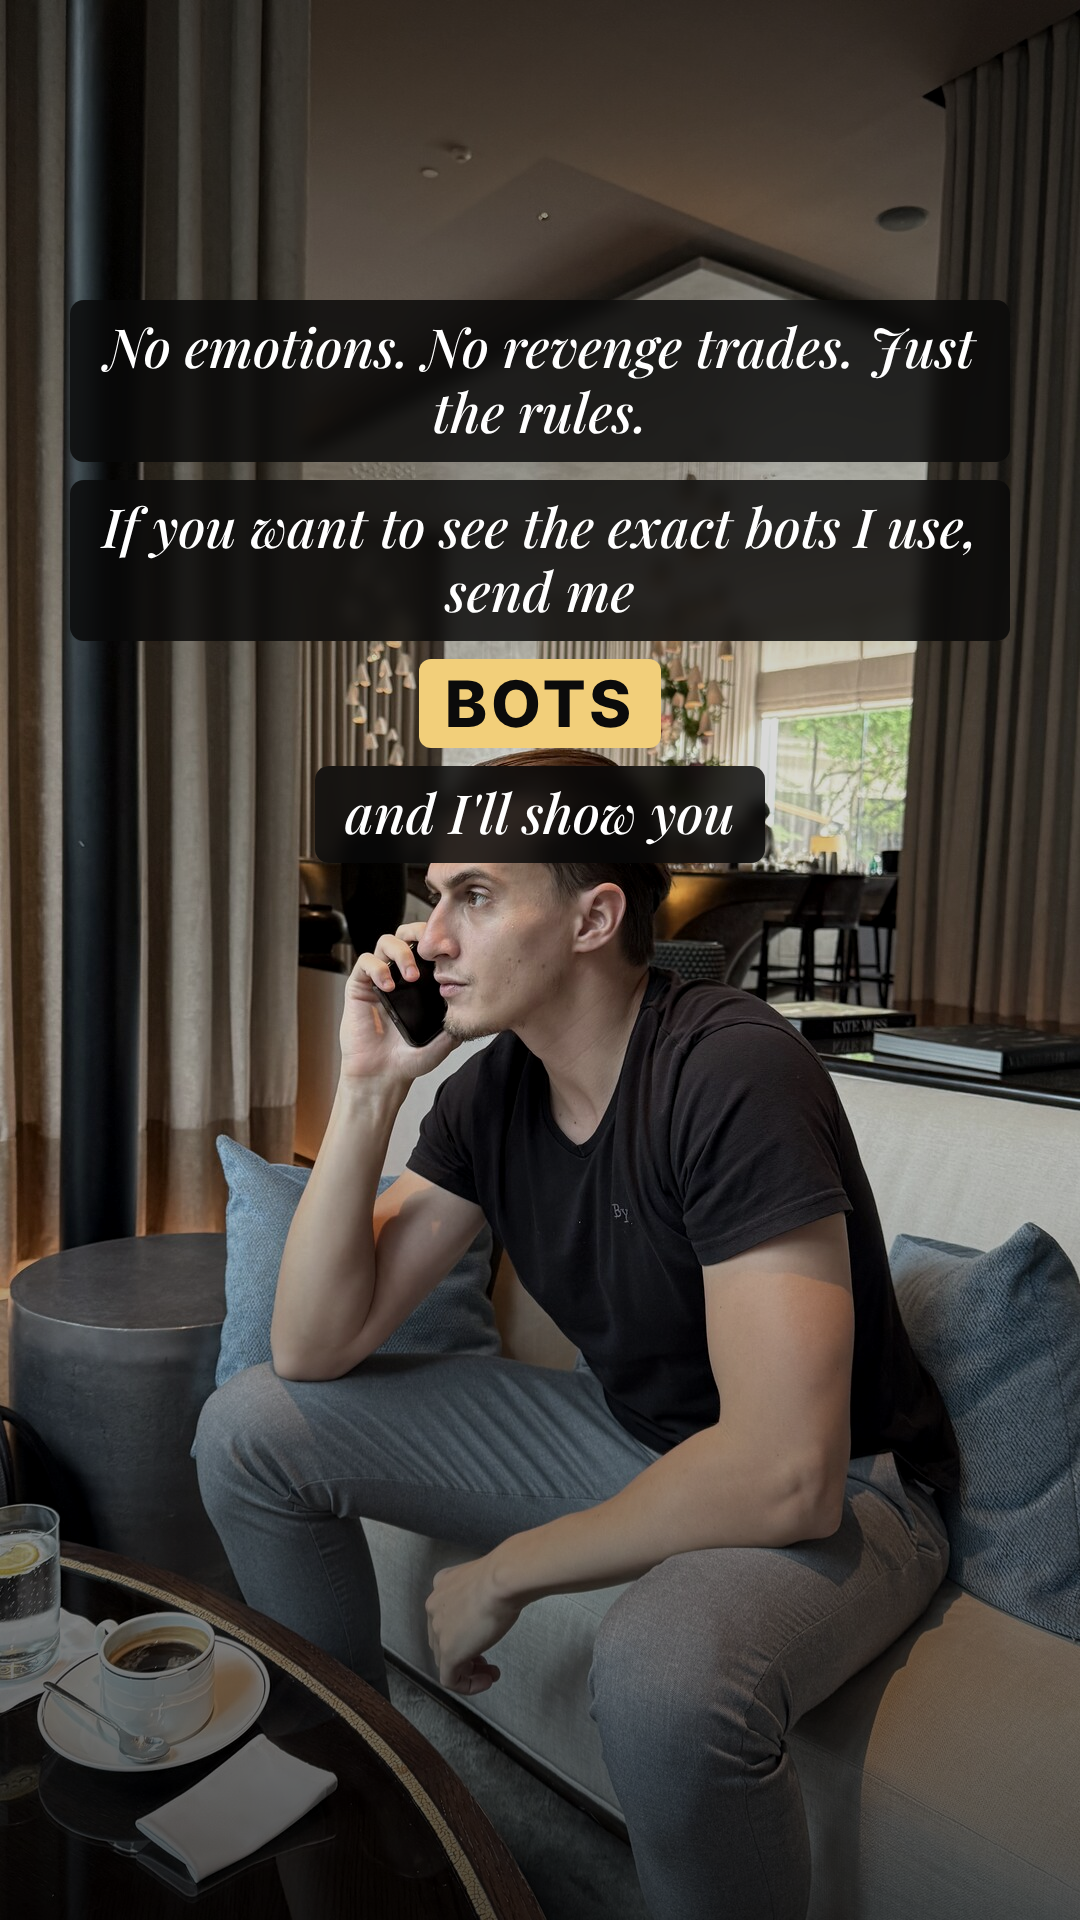
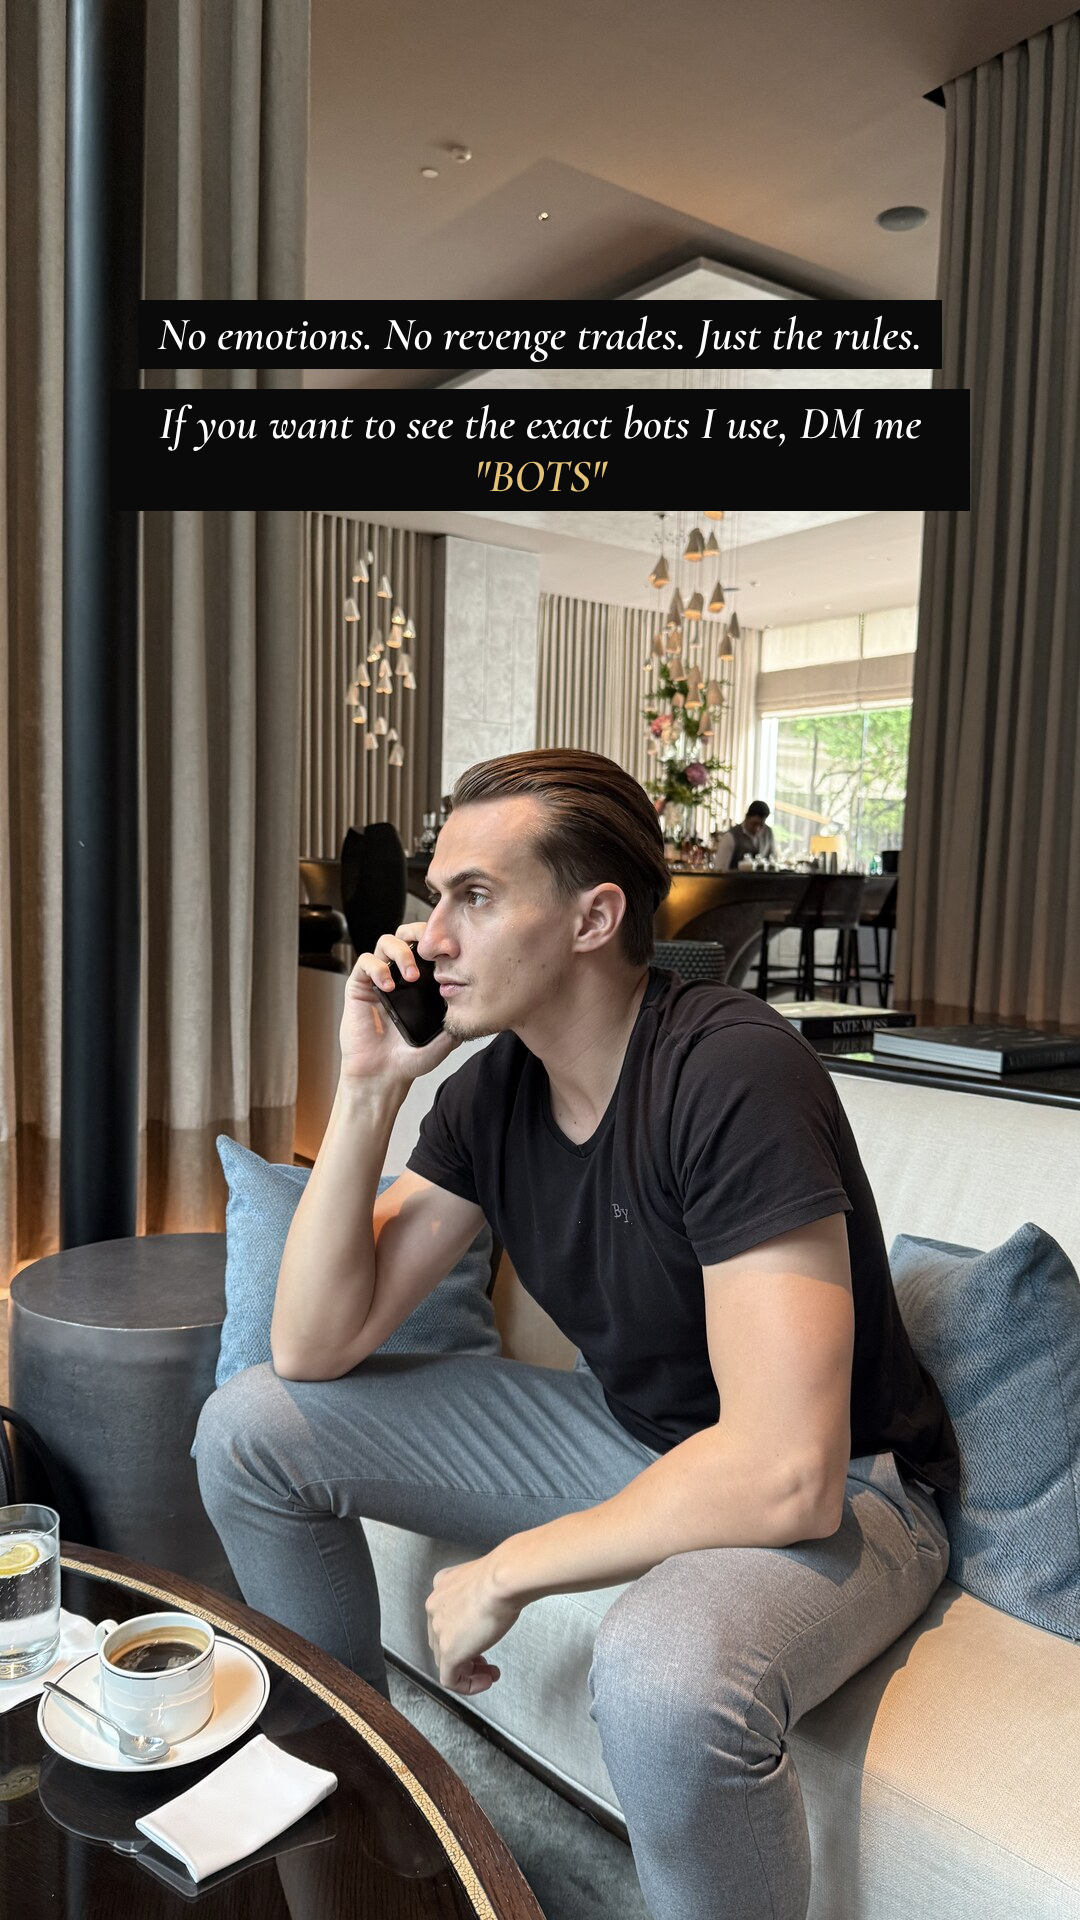
Bots soft sequence v3: raw inspo style
Claude-Session: https://claude.ai/code/session_015aTEPYQAHmzhiX45pd5jFL

diff --git a/sequences/2026-11-23_soft_bots-i-use/frames/style.css b/sequences/2026-11-23_soft_bots-i-use/frames/style.css
@@ -1,15 +1,10 @@
-@import url('https://fonts.googleapis.com/css2?family=Playfair+Display:ital,wght@1,500;1,700&family=Inter:wght@500;700;800&display=swap');
+@import url('https://fonts.googleapis.com/css2?family=Cormorant+Garamond:ital,wght@1,600&display=swap');
 *{margin:0;padding:0;box-sizing:border-box}
 html,body{width:1080px;height:1920px;overflow:hidden;background:#000}
-.bg{position:absolute;inset:0;background-size:cover;background-position:center;filter:contrast(1.05) saturate(.95)}
-.shade{position:absolute;inset:0;background:linear-gradient(180deg,rgba(0,0,0,.55) 0%,rgba(0,0,0,.15) 38%,rgba(0,0,0,.15) 55%,rgba(0,0,0,.7) 100%)}
-.stack{position:absolute;left:0;right:0;display:flex;flex-direction:column;align-items:center;gap:18px;padding:0 70px}
-.t{font-family:'Playfair Display',serif;font-style:italic;font-weight:500;color:#fff;background:rgba(8,8,8,.82);
- backdrop-filter:blur(8px);font-size:54px;line-height:1.2;text-align:center;padding:14px 30px 18px;border-radius:14px;max-width:940px}
-.t b{font-weight:700;color:#f2cf7a}
-.big{font-size:74px;padding:18px 36px 24px}
-.kick{font:800 30px Inter,sans-serif;letter-spacing:.28em;color:#f2cf7a;text-transform:uppercase;background:rgba(8,8,8,.82);padding:12px 24px;border-radius:999px}
-.card{position:absolute;border-radius:22px;overflow:hidden;box-shadow:0 30px 70px rgba(0,0,0,.7);border:3px solid rgba(255,255,255,.18)}
+.bg{position:absolute;inset:0;background-size:cover;background-position:center}
+.stack{position:absolute;left:0;right:0;display:flex;flex-direction:column;align-items:center;gap:20px;padding:0 110px}
+.t{font-family:'Cormorant Garamond',serif;font-style:italic;font-weight:600;color:#fff;background:#0a0a0a;
+ font-size:46px;line-height:1.15;text-align:center;padding:8px 20px;max-width:860px}
+.t em{color:#e3c27a}
+.card{position:absolute;border-radius:12px;overflow:hidden}
 .card img{display:block;width:100%}
-.amt{position:absolute;font:800 34px Inter,sans-serif;color:#0b0b0b;background:#f2cf7a;padding:8px 18px;border-radius:999px;box-shadow:0 8px 24px rgba(0,0,0,.5)}
-.kw{display:inline-block;font:800 64px Inter,sans-serif;font-style:normal;color:#0b0b0b;background:#f2cf7a;padding:6px 26px;border-radius:12px;letter-spacing:.06em}

diff --git a/sequences/2026-11-23_soft_bots-i-use/frames/03.html b/sequences/2026-11-23_soft_bots-i-use/frames/03.html
@@ -1,10 +1,12 @@
 <html><head><link rel="stylesheet" href="style.css"></head><body>
-<div class="bg" style="background-image:url(../assets/expo.jpg)"></div><div class="shade"></div>
+<div class="bg" style="background-image:url(../assets/sunset.jpg)"></div>
 <div class="stack" style="top:290px">
-<div class="t">Crazy part is it's not just me anymore</div>
-<div class="t">My community runs the <b>same bots</b>. These came in this month:</div>
+<div class="t">Some more payouts from people running the same bots:</div>
+<div class="t">Can't even fit em all</div>
 </div>
-<div class="card" style="left:50px;top:830px;width:500px;transform:rotate(-3deg)"><img src="../../../03-backgrounds-larp/student-results/Screenshot 2569-11-13 at 11.26.11.png"></div>
-<div class="card" style="left:530px;top:870px;width:500px;transform:rotate(3deg)"><img src="../../../03-backgrounds-larp/student-results/member25.jpeg" style="height:600px;object-fit:cover;object-position:top"></div>
-<div class="card" style="left:120px;top:1270px;width:520px;transform:rotate(2deg)"><img src="../../../03-backgrounds-larp/student-results/member24.jpeg"></div>
+<div class="card" style="left:60px;top:560px;width:470px"><img src="../../../03-backgrounds-larp/student-results/Screenshot 2569-11-13 at 11.26.11.png"></div>
+<div class="card" style="left:560px;top:560px;width:460px"><img src="../../../03-backgrounds-larp/student-results/member24.jpeg"></div>
+<div class="card" style="left:60px;top:1000px;width:470px"><img src="../../../03-backgrounds-larp/student-results/member2.jpeg"></div>
+<div class="card" style="left:560px;top:960px;width:460px"><img src="../../../03-backgrounds-larp/student-results/member18.jpeg"></div>
+<div class="stack" style="top:1400px"><div class="t">The results you get when you take the emotions out of trading</div></div>
 </body></html>

diff --git a/sequences/2026-11-23_soft_bots-i-use/frames/02.html b/sequences/2026-11-23_soft_bots-i-use/frames/02.html
@@ -1,11 +1,9 @@
 <html><head><link rel="stylesheet" href="style.css"></head><body>
-<div class="bg" style="background-image:url(../assets/boat.jpg)"></div><div class="shade"></div>
+<div class="bg" style="background-image:url(../assets/cafe.jpg)"></div>
 <div class="stack" style="top:290px">
-<div class="t">I don't run 50 bots. I run <b>3–4</b>.</div>
-<div class="t">Every single one I built myself over the last <b>2.5 years</b></div>
+<div class="t">I don't run 50 bots. I only use <em>3-4</em></div>
+<div class="t">Different bots and strategies I've personally built over the last 2.5 years</div>
 </div>
-<div class="card" style="left:55px;top:820px;width:560px;transform:rotate(-4deg)"><img src="../../../03-backgrounds-larp/student-results/member6.jpeg"></div>
-<div class="card" style="left:460px;top:1060px;width:570px;transform:rotate(3deg)"><img src="../../../03-backgrounds-larp/student-results/member9.jpeg"></div>
-<div class="amt" style="left:80px;top:790px">$2,810 payout</div>
-<div class="amt" style="left:760px;top:1030px">$2,363 payout</div>
+<div class="card" style="left:70px;top:1080px;width:450px"><img src="../../../03-backgrounds-larp/student-results/member6.jpeg"></div>
+<div class="card" style="left:560px;top:1080px;width:450px"><img src="../../../03-backgrounds-larp/student-results/member9.jpeg"></div>
 </body></html>

diff --git a/sequences/2026-11-23_soft_bots-i-use/frames/01.html b/sequences/2026-11-23_soft_bots-i-use/frames/01.html
@@ -1,7 +1,7 @@
 <html><head><link rel="stylesheet" href="style.css"></head><body>
-<div class="bg" style="background-image:url(../assets/pool.jpg);background-position:60% center"></div><div class="shade"></div>
+<div class="bg" style="background-image:url(../assets/pool.jpg);background-position:60% center"></div>
 <div class="stack" style="top:300px">
-<div class="kick">Honest answer</div>
-<div class="t big">Everyone keeps asking which bots I <b>actually</b> run</div>
-<div class="t">So let me show you 👇</div>
+<div class="t">Been getting a lot of DMs about my bots lately</div>
+<div class="t">Which ones I actually run, what I use to pass challenges, how I stopped touching the charts</div>
+<div class="t">So here's the honest answer</div>
 </div></body></html>

diff --git a/sequences/2026-11-23_soft_bots-i-use/frames/04.html b/sequences/2026-11-23_soft_bots-i-use/frames/04.html
@@ -1,8 +1,6 @@
 <html><head><link rel="stylesheet" href="style.css"></head><body>
-<div class="bg" style="background-image:url(../assets/lounge.jpg)"></div><div class="shade"></div>
+<div class="bg" style="background-image:url(../assets/lounge.jpg)"></div>
 <div class="stack" style="top:300px">
 <div class="t">No emotions. No revenge trades. Just the rules.</div>
-<div class="t">If you want to see the exact bots I use, send me</div>
-<div class="kw">BOTS</div>
-<div class="t">and I'll show you</div>
+<div class="t">If you want to see the exact bots I use, DM me <em>"BOTS"</em></div>
 </div></body></html>
